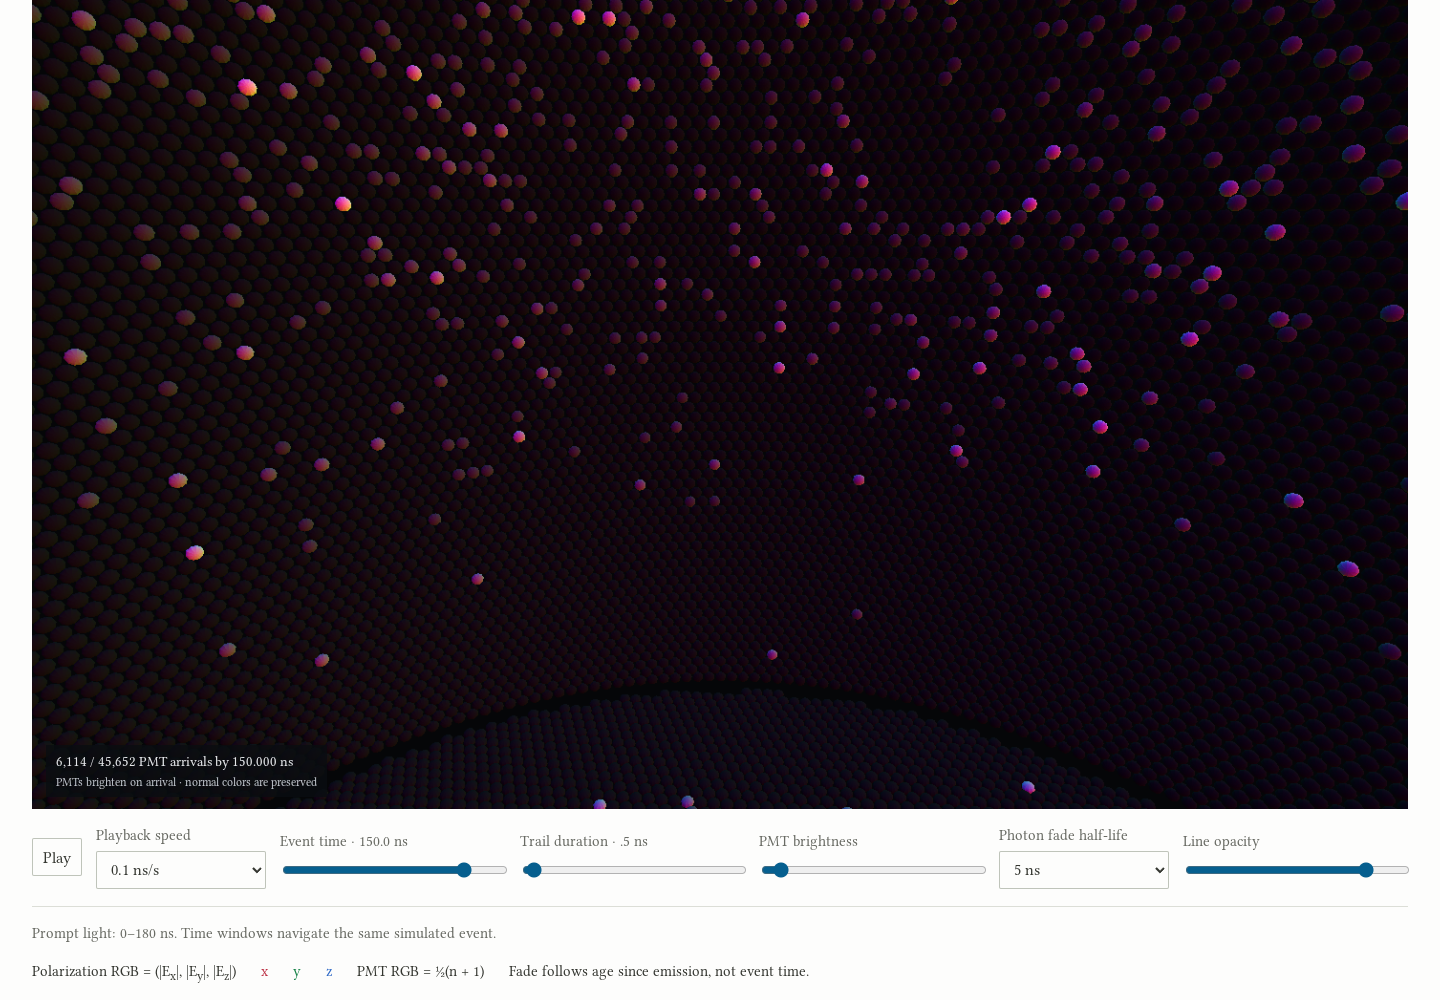
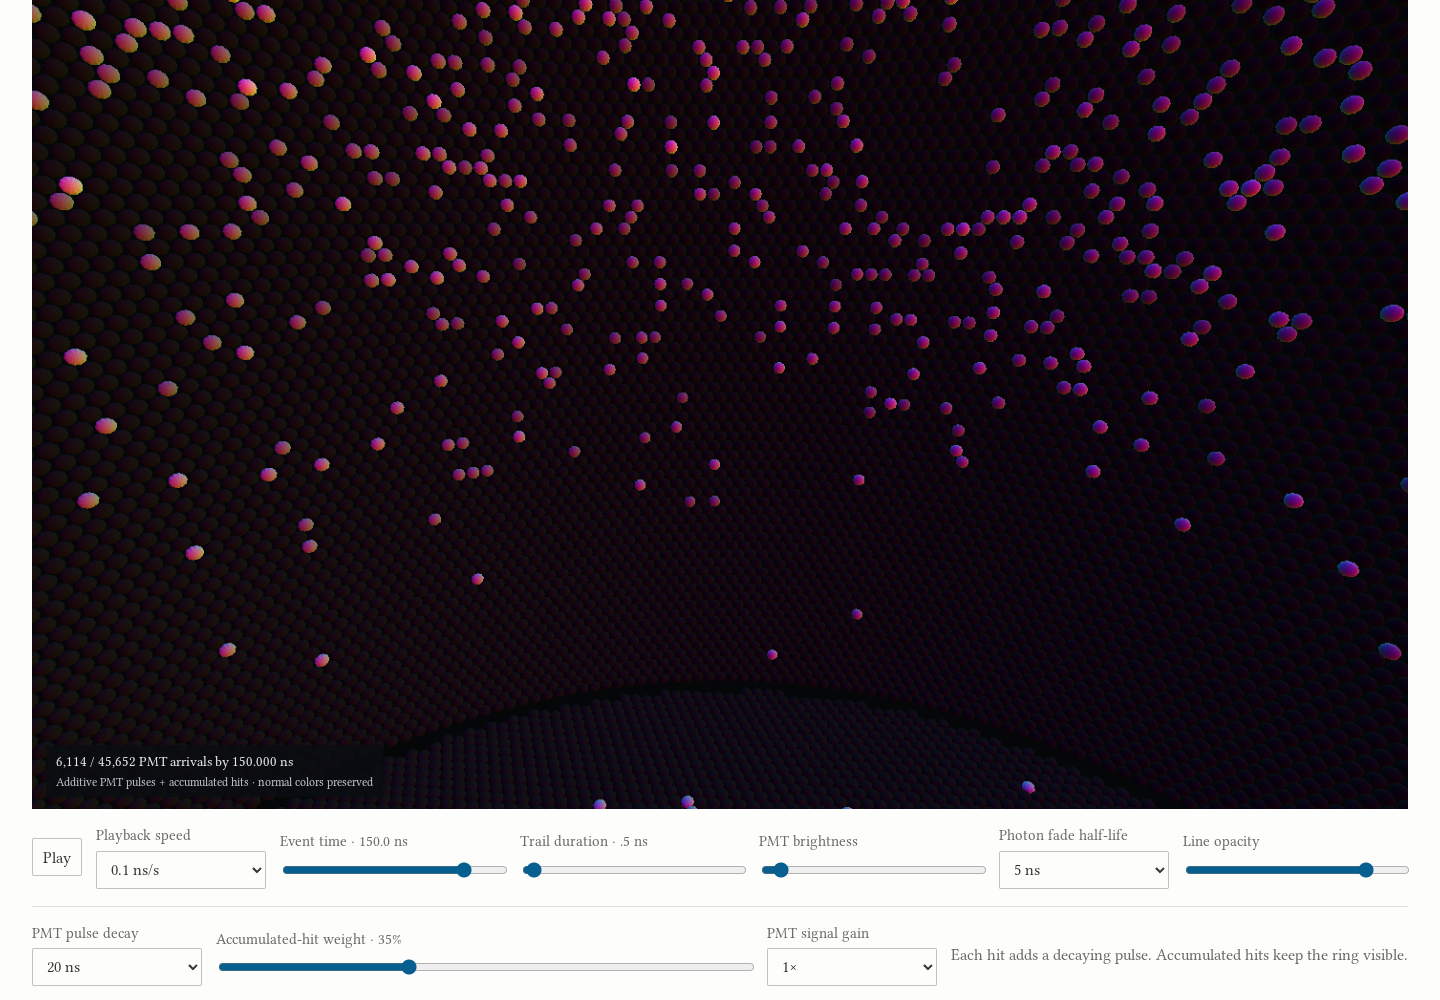
Sum PMT arrival pulses and retain accumulated charge patterns

diff --git a/examples/photon_histories/index.html b/examples/photon_histories/index.html
@@ -24,7 +24,7 @@ main{width:min(1500px,calc(100% - 64px));margin-top:38px}.intro{max-width:960px}
 <label>Time window<select id="window"><option value="first">First nanosecond · 0–1 ns</option><option value="early">Early light · 0–10 ns</option><option value="prompt" selected>Prompt light · 0–180 ns</option><option value="late">Late light · around 2.9 µs</option><option value="arrivals">First PMT arrivals</option><option value="full">Whole event</option></select></label><button id="early">Explore first 10 ns</button><label class="hit-toggle"><input type="checkbox" id="highlight" checked> Highlight PMT hits</label><button id="save">Save image</button><button id="stop">Stop</button><button id="simulate" disabled>Simulate event</button>
 </section>
 <p id="status" role="status">Loading geometry and HK particle steps…</p>
-<div class="scene"><canvas id="view" width="1020" height="600" aria-label="Photon histories with PMTs colored by normal and highlighted as photons arrive"></canvas><div class="hit-readout"><span id="hitCount">Simulate an event to see PMT arrivals.</span><span class="muted">PMTs brighten on arrival · normal colors are preserved</span></div></div>
+<div class="scene"><canvas id="view" width="1020" height="600" aria-label="Photon histories with PMTs colored by normal and highlighted as photons arrive"></canvas><div class="hit-readout"><span id="hitCount">Simulate an event to see PMT arrivals.</span><span class="muted">Additive PMT pulses + accumulated hits · normal colors preserved</span></div></div>
 <div class="timeline"><button id="play" disabled>Play</button>
 <label class="speed">Playback speed<select id="speed"><option value="0.01">0.01 ns/s</option><option value="0.1">0.1 ns/s</option><option value="0.5">0.5 ns/s</option><option value="1">1 ns/s</option><option value="5" selected>5 ns/s</option><option value="20">20 ns/s</option></select></label>
 <label><span>Event time · <span id="timeLabel">42 ns</span></span><input id="time" type="range" min="0" max="180" step=".001" value="42"></label>
@@ -32,6 +32,12 @@ main{width:min(1500px,calc(100% - 64px));margin-top:38px}.intro{max-width:960px}
 <label>PMT brightness<input id="brightness" type="range" min=".05" max="1" step=".05" value=".15"></label>
 <label class="speed">Photon fade half-life<select id="fade"><option value="0">No fading</option><option value="0.5">0.5 ns</option><option value="1">1 ns</option><option value="5">5 ns</option><option value="20" selected>20 ns</option><option value="100">100 ns</option></select></label>
 <label>Line opacity<input id="opacity" type="range" min=".1" max="1" step=".05" value=".85"></label></div>
+<div class="timeline pmt-response">
+<label class="speed">PMT pulse decay<select id="pmtDecay"><option value="4">4 ns</option><option value="10">10 ns</option><option value="20" selected>20 ns</option><option value="50">50 ns</option><option value="100">100 ns</option></select></label>
+<label><span>Accumulated-hit weight · <span id="pmtMemoryLabel">35%</span></span><input id="pmtMemory" type="range" min="0" max="1" step=".05" value=".35"></label>
+<label class="speed">PMT signal gain<select id="pmtGain"><option value=".25">0.25×</option><option value=".5">0.5×</option><option value="1" selected>1×</option><option value="2">2×</option><option value="4">4×</option></select></label>
+<span class="muted">Each hit adds a decaying pulse. Accumulated hits keep the ring visible.</span>
+</div>
 <p id="windowNote" class="muted">Prompt window: the first 180 ns. Time windows navigate the same simulated event.</p>
 <div class="legend"><span>Polarization RGB = (|E<sub>x</sub>|, |E<sub>y</sub>|, |E<sub>z</sub>|)</span><b class="x">x</b><b class="y">y</b><b class="z">z</b><span>PMT RGB = ½(n + 1)</span><span>Fade follows age since emission, not event time.</span></div>
 <p class="muted">Drag to orbit · middle-drag or Shift-drag to pan · scroll to zoom. Each polyline is one transported photon. The visible subset stays fixed as you scrub time.</p>
@@ -40,6 +46,6 @@ main{width:min(1500px,calc(100% - 64px));margin-top:38px}.intro{max-width:960px}
 <details><summary>Physics and rendering</summary>
 <p>The primary and secondary particle steps come from the HK sample: a 1.99975 GeV muon and a 1.99829 GeV electron. Recorded positions, directions, beta and emission times are preserved under a rigid rotation and translation into the Theia geometry. The browser generates new Cherenkov photons from those steps using the Frank–Tamm spectrum over 360–700 nm, with wavelength-dependent cone angle and transverse polarization. This reconstructs optical emission from recorded Geant4 steps; it does not replay the original optical photons or detector hits. Beta is held constant within each recorded step, and source coordinate quantization can produce zero-length steps that emit no new light.</p>
 <p>WebGPU propagates photons through illustrative dispersive water with wavelength-dependent absorption and polarized Rayleigh scattering. Paths terminate at the actual PMT/enclosure triangle meshes; PMTs are ideal absorbing surfaces here, without glass or quantum-efficiency calibration. The physical mean yield sets the simulated photon count (rounded to the nearest photon, without Poisson event fluctuations). A stable subset of photon IDs, or all IDs when selected, is retained for display. The optional fade changes drawn opacity with age since emission; it has no effect on transport or hit counts. Rendering reads those actual segments directly from GPU memory, clips them against the detector depth, and never draws synthetic cone lines. Colors encode vector components, not wavelength or optical brightness. The sign of the polarization vector has no observable effect, hence the absolute components.</p>
-<p>Transport stops after 32 flights, with unfinished photons reported. Choose up to all photon histories when the adapter supports the required buffer size. The default retains up to 32,768 histories (64 MiB); the full muon event uses about 532 MiB of path storage. Increasing the retained limit reruns the same seed; reducing the displayed limit reuses the event. Every simulated photon contributes to PMT highlights regardless of the path limit. PMTs brighten as photons arrive, then fade to a dimmer level for earlier hits; only brightness changes, preserving their surface-normal RGB colors. These are ideal-surface photon intersections, without quantum efficiency. The First PMT arrivals window jumps to the first recorded arrivals in the current event. GPU work is batched, hidden tabs pause, and animation is capped at 30 frames per second. Camera movement and time scrubbing reuse the event. Playback speed is measured in simulated nanoseconds per real second, down to 0.01 ns/s. The first-nanosecond and first-10-ns windows give precise access to early emission; close-up presets center on the first emitting particle step. The late window navigates to the muon’s delayed secondary emission around 2.9 µs; the electron event has no corresponding late burst.</p>
+<p>Transport stops after 32 flights, with unfinished photons reported. Choose up to all photon histories when the adapter supports the required buffer size. The default retains up to 32,768 histories (64 MiB); the full muon event uses about 532 MiB of path storage. Increasing the retained limit reruns the same seed; reducing the displayed limit reuses the event. Every simulated photon contributes to PMT highlights regardless of the path limit. Each PMT signal sums a unit-height exponential pulse from every arrival: A(t) = Σ exp(−(t − tᵢ)/τ), including only tᵢ ≤ t. The pulse decay control sets τ in simulated nanoseconds. A cumulative count N(t) provides an adjustable persistent contribution, so brighter regions retain the integrated-hit pattern. Brightness above the base level is mapped smoothly as 1 − exp(−gain × [A(t) + weight × N(t)]). Set the accumulated-hit weight to zero for pulses alone. Complete histories show accumulated counts alone. Only brightness changes; surface-normal RGB colors are preserved. These unit-weight hits are a charge proxy and illustrative pulse response, without PMT gain fluctuations or calibrated electronics. These are ideal-surface photon intersections, without quantum efficiency. The First PMT arrivals window jumps to the first recorded arrivals in the current event. GPU work is batched, hidden tabs pause, and animation is capped at 30 frames per second. Camera movement and time scrubbing reuse the event. Playback speed is measured in simulated nanoseconds per real second, down to 0.01 ns/s. The first-nanosecond and first-10-ns windows give precise access to early emission; close-up presets center on the first emitting particle step. The late window navigates to the muon’s delayed secondary emission around 2.9 µs; the electron event has no corresponding late burst.</p>
 <p>Reference: <a href="https://geant4.web.cern.ch/documentation/pipelines/master/prm_html/PhysicsReferenceManual/electromagnetic/xray_production/cerenkov.html">Geant4 Cherenkov model</a>.</p>
 </details></main><script type="module" src="event.js"></script></body></html>

diff --git a/examples/photon_histories/event.js b/examples/photon_histories/event.js
@@ -82,7 +82,7 @@ class PhotonHistories {
     p.set([this.capacity,this.stride||1,this.displayCount(),$('mode').value==='history'?1:0],4);
     p.set([this.eventTime,Number($('trail').value),Number($('opacity').value),Number($('brightness').value)],8);
     p.set([$('highlight').checked?1:0,Number($('fade').value),this.debugCount||0,disableOptics?1:0],12);
-    p[16]=this.sensorCount;return p;
+    p.set([this.sensorCount,Number($('pmtDecay').value),Number($('pmtMemory').value),Number($('pmtGain').value)],16);return p;
   }
   displayCount(){return Math.min($('paths').value==='all'?this.count:Number($('paths').value),this.retained||0);}
   setEventTime(value){
@@ -101,7 +101,7 @@ class PhotonHistories {
   }
   syncTimeControls(){
     const history=$('mode').value==='history';
-    for(const id of ['time','trail','play','window','speed','early'])$(id).disabled=history;
+    for(const id of ['time','trail','play','window','speed','early','pmtDecay','pmtMemory'])$(id).disabled=history;
     $('window').querySelector('[value="late"]').disabled=(this.source?.latest_emission_ns||0)<=180;
     for(const option of $('paths').options)if(option.value!=='all')option.disabled=Number(option.value)>this.maxCapacity;
     $('paths').querySelector('[value="all"]').disabled=Math.round(this.source?.total_yield||272157)>this.maxCapacity;
@@ -237,7 +237,8 @@ class PhotonHistories {
     $('simulate').onclick=()=>{const requested=$('paths').value==='all'?Math.round(this.source?.total_yield||272157):Number($('paths').value);this.capacity=Math.min(this.maxCapacity,Math.max(this.software?2048:32768,requested));this.simulate().catch(e=>this.fail(e));};
     $('event').onchange=()=>{this.seed=901;this.simulate().then(()=>{if(['early','origin'].includes($('preset').value))this.focusEmission($('preset').value==='origin');}).catch(e=>this.fail(e));};
     $('stop').onclick=()=>{this.playing=false;$('play').textContent='Play';this.pending=false;gpuBudget.cancel();};
-    for(const id of ['paths','mode','brightness','opacity','time','trail','highlight','fade'])$(id).addEventListener('input',()=>{
+    for(const id of ['paths','mode','brightness','opacity','time','trail','highlight','fade','pmtDecay','pmtMemory','pmtGain'])$(id).addEventListener('input',()=>{
+      if(id==='pmtMemory')$('pmtMemoryLabel').textContent=Math.round(Number($('pmtMemory').value)*100)+'%';
       if(id==='time')this.setEventTime($('time').value);
       if(id==='paths'){const requested=$('paths').value==='all'?this.count:Number($('paths').value);if(requested>this.capacity&&!this.busy){this.simulate().catch(e=>this.fail(e));return;}}
       if(id==='trail'){$('trailLabel').textContent=$('trail').value+' ns';}

diff --git a/examples/photon_histories/check.py b/examples/photon_histories/check.py
@@ -142,18 +142,23 @@ def main():
                             if(hits[id*4]!==flights[end+7]||hits[id*4+1]!==flights[end+14]+1||hits[id*4+2]!==flights[end+11])throw Error('Arrival does not match terminal flight');matched++;
                         }else if(hits[id*4+1]!==0)throw Error('Spurious PMT arrival');
                     }
+                    let amplitudeError=0;
                     for(const time of [0,10,50,100,180,3000,100,0]){
                         app.timeWindow('full');app.setEventTime(time);await app.render({width:340});
                         const states=new Float32Array(await app.download(app.eventBuffers.hitStates));
                         let sum=0;
                         for(let sensor=0;sensor<app.sensorCount;sensor++){
-                            let count=0,last=-1e30;
-                            for(let i=app.hitOffsets[sensor];i<app.hitOffsets[sensor+1];i++)if(app.hitTimes[i]<=Math.fround(app.eventTime)){count++;last=app.hitTimes[i];}
+                            let count=0,last=-1e30,amplitude=0;
+                            for(let i=app.hitOffsets[sensor];i<app.hitOffsets[sensor+1];i++)if(app.hitTimes[i]<=Math.fround(app.eventTime)){
+                                count++;last=app.hitTimes[i];amplitude+=Math.exp(-(Math.fround(app.eventTime)-app.hitTimes[i])/Number(document.getElementById('pmtDecay').value));
+                            }
+                            amplitudeError=Math.max(amplitudeError,Math.abs(states[sensor*4+2]-amplitude));
                             if(states[sensor*4]!==count || (count && states[sensor*4+1]!==last))throw Error('PMT timeline mismatch');sum+=count;
                         }
                         if(sum!==app.arrivedAt(Math.fround(app.eventTime)))throw Error('Total arrival mismatch');
                     }
-                    app.timeWindow('prompt');return {matched,forward_backward_scrub:true};
+                    if(amplitudeError>5e-5)throw Error('Additive PMT signal mismatch');
+                    app.timeWindow('prompt');return {matched,forward_backward_scrub:true,amplitudeError};
                 }""")
                 r["arrivals"] = hit_check
                 debug = np.array(r.pop("debug")).reshape(-1, 16)
@@ -415,6 +420,52 @@ def main():
                 page.wait_for_function("!app.rendering && !app.pending")
                 assert page.evaluate("app.eventTime>2900")
                 report["controls"]["late_window"] = True
+            # Independent synthetic impulse trains test coincidence, pileup, decay and replay.
+            report["pmt_signal"] = page.evaluate("""async()=>{
+                const usage=GPUBufferUsage.STORAGE|GPUBufferUsage.COPY_DST|GPUBufferUsage.COPY_SRC;
+                const owned=[];const buffer=(data,usage)=>{const b=app.device.createBuffer({size:data.byteLength,usage});owned.push(b);app.device.queue.writeBuffer(b,0,data);return b;};
+                const lists=[[1,1,3],[2,10,2900],[]];
+                try{
+                    const offsets=buffer(new Uint32Array([0,3,6,6]),usage),times=buffer(new Float32Array(lists.flat()),usage);
+                    const states=buffer(new Float32Array(12),usage),params=buffer(new Float32Array(20),GPUBufferUsage.UNIFORM|GPUBufferUsage.COPY_DST);
+                    const group=app.group(app.hitPipeline,{6:params,13:offsets,14:times,15:states});let maximumError=0,cases=0;
+                    for(const tau of [4,20,100])for(const time of [0,.9999,1,2,3,10,15,200,2910,3]){
+                        const settings=app.settings();settings[7]=0;settings[8]=time;settings[16]=3;settings[17]=tau;app.device.queue.writeBuffer(params,0,settings);
+                        const encoder=app.device.createCommandEncoder(),pass=encoder.beginComputePass();pass.setPipeline(app.hitPipeline);pass.setBindGroup(0,group);pass.dispatchWorkgroups(1);pass.end();app.device.queue.submit([encoder.finish()]);
+                        const result=new Float32Array(await app.download(states));
+                        for(let sensor=0;sensor<3;sensor++){
+                            const arrived=lists[sensor].filter(t=>t<=settings[8]);const expected=arrived.reduce((a,t)=>a+Math.exp(-(settings[8]-t)/tau),0);
+                            if(result[sensor*4]!==arrived.length)throw Error('Integrated PMT count mismatch');
+                            maximumError=Math.max(maximumError,Math.abs(result[sensor*4+2]-expected));
+                        }
+                        if(time===1 && result[2]!==2)throw Error('Coincident hits did not add');cases++;
+                    }
+                    if(maximumError>5e-5)throw Error('Exponential PMT pulse mismatch');
+                    return {cases,maximumError,coincident_hits_add:true,delayed_hit:true,backward_scrub:true};
+                }finally{owned.forEach(b=>b.destroy());}
+            }""")
+            for control, value in [("#pmtDecay", "50"), ("#pmtGain", ".5")]:
+                page.select_option(control, value)
+            page.locator("#pmtMemory").fill("0.5")
+            page.locator("#pmtMemory").dispatch_event("input")
+            page.wait_for_function("!app.rendering && !app.pending")
+            signal_event_generation = page.evaluate("app.eventGeneration")
+            page.select_option("#window", "full")
+            page.locator("#time").fill("500")
+            page.locator("#time").dispatch_event("input")
+            page.wait_for_function("!app.rendering && !app.pending")
+            retained_ring = page.locator("#view").screenshot(
+                path=str(args.output / "integrated-ring.png")
+            )
+            page.locator("#pmtMemory").fill("0")
+            page.locator("#pmtMemory").dispatch_event("input")
+            page.wait_for_function("!app.rendering && !app.pending")
+            assert (
+                page.locator("#view").screenshot() != retained_ring
+            ), "Accumulated hits did not retain the ring"
+            assert page.evaluate("app.eventGeneration") == signal_event_generation
+            report["pmt_signal"]["controls_reuse_event"] = True
+            report["pmt_signal"]["integrated_ring_persists"] = True
             # Inject an allocation failure without exhausting the host GPU.
             report["resource_limits"] = page.evaluate("""async()=>{
                 const create=app.device.createBuffer.bind(app.device);let injected=0;

diff --git a/examples/photon_histories/README.md b/examples/photon_histories/README.md
@@ -20,8 +20,21 @@ visual opacity only. A secondary photon emitted at 2.9 µs starts at age zero.
 
 All PMT arrivals are recorded, including photons without a displayed path.
 The 3D PMTs default to 15% normal-color brightness (10% in the early close-up),
-brighten at arrival, and fade to a dimmer level afterward. Only brightness
-changes; the original surface-normal RGB color is preserved.
+sum an exponential pulse from every arrival, and retain a brightness
+contribution proportional to accumulated hit count. Only brightness changes;
+the original surface-normal RGB color is preserved.
+
+For PMT arrival times `t_i <= t`, the pulse amplitude is
+`A(t) = sum(exp(-(t-t_i)/tau))` and accumulated charge proxy is the count `N(t)`.
+Every photon has unit weight. Pulses add before the nonlinear display mapping:
+`brightness = base + (1-base) * (1-exp(-gain*(A + weight*N)))`.
+Default decay is 20 ns, accumulated-hit weight 0.35, and display gain 1.
+Setting the accumulated-hit weight to zero gives a pure decaying response.
+Complete histories show `N` alone. These are relative signals, not calibrated
+charge or voltage: the model does not include QE, gain fluctuations or PMT
+electronics. The display gain adjusts brightness, not simulated PMT gain.
+The GPU recomputes the amplitude from recorded arrival times, so backward
+scrubbing and changes to decay time are independent of frame rate or history.
 The arrival counter lives directly over the 3D canvas; there is no separate
 hit-map panel. Scrubbing backward removes later arrivals. The First PMT
 arrivals window jumps to the first recorded arrivals in the current event.
@@ -118,7 +131,11 @@ hit counts and latest-arrival times are checked against an independent CPU
 scan during forward and backward scrubbing. Full-event hit records must be
 bitwise unchanged when all paths are retained. Tests also exercise precise
 slow playback, early close-ups, fading, late-light navigation, a constrained
-128 MiB buffer limit, and injected allocation failure recovery. With
+128 MiB buffer limit, and injected allocation failure recovery. Thirty synthetic
+PMT impulse-train cases check coincident hits, pulse overlap, decay, late hits
+and backward scrubbing against independent exponential sums; recorded event
+arrivals are checked the same way. The late-time render is compared with
+and without the accumulated-hit contribution. With
 `--baseline`, original history/counter/debug bytes must match the old page.
 It also renders the full muon and electron events and saves screenshots.
 Browser-native WebGPU is required for the default local hardware test.
@@ -129,11 +146,13 @@ against the previously published transport implementation; see
 `expanded-transport.json`. `report.json` records the final presentation and
 resource checks, with another 16,386-history transport comparison.
 Both full events have zero unfinished photons and zero traversal failures;
-their measured simulation wall times were 0.215 s and 0.219 s, including
+their measured simulation wall times were 0.211 s and 0.220 s, including
 allocation, readback and arrival indexing but excluding initialization and rendering.
-Cached early-event frames took 4.1 ms with 8,192 displayed paths and 10.6 ms
+Cached early-event frames took 3.5 ms with 8,192 displayed paths and 11.0 ms
 with all 269,860 electron paths (three frames each, at 1440 pixels wide).
 The display still caps playback at 30 updates/s.
+`validation/ring-integrated.png` and `ring-pulses-only.png` compare the same
+muon event at 500 ns from the Along the cone view.
 These are local measurements, not a performance guarantee for other GPUs.
 
 References: [Geant4 Cherenkov model](https://geant4.web.cern.ch/documentation/pipelines/master/prm_html/PhysicsReferenceManual/electromagnetic/xray_production/cerenkov.html),
